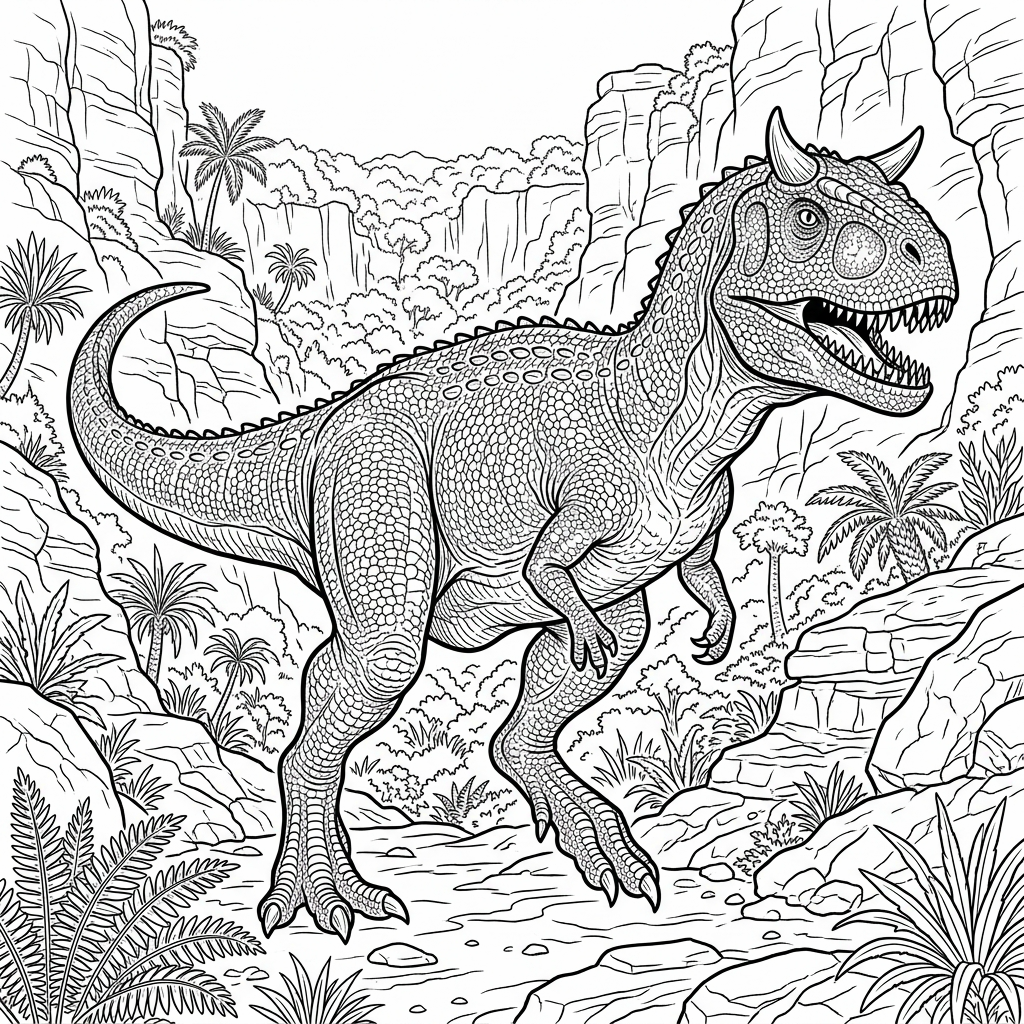
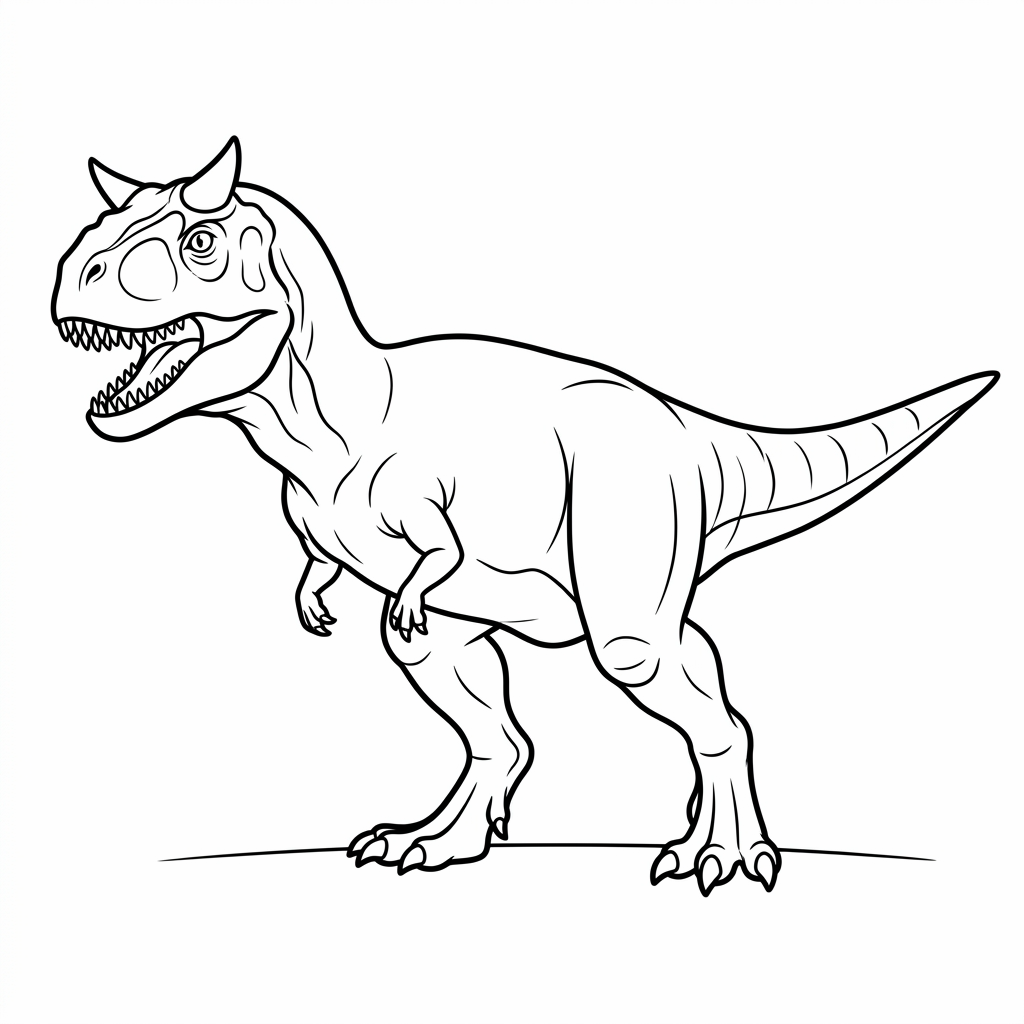
Nouveaux coloriages dinosaures realistes epures a grands traits coloriables, sans plantes, et ajout du duel T-Rex vs Spinosaure

diff --git a/templates.js b/templates.js
@@ -349,31 +349,31 @@ const COLORING_TEMPLATES = [
   },
 
   // ------------------------------------------------------
-  // DINOSAURES PRÉDATEURS RÉALISTES (LIGNES FINES & PRÉCISES)
-  // Illustrations professionnelles détaillées de haute qualité
+  // DINOSAURES PRÉDATEURS RÉALISTES (GRANDS TRAITS COLORIABLES)
+  // Contours nets, peau lisse sans hachures, sans plantes
   // ------------------------------------------------------
+  {
+    id: 'duel-trex-spinosaure',
+    category: 'predators',
+    title: '💥 Duel T-Rex vs Spinosaure',
+    imageSrc: 'assets/dinos/duel_trex_spinosaure.png'
+  },
   {
     id: 'trex-realiste',
     category: 'predators',
-    title: '🦖 T-Rex Prédateur Réaliste',
+    title: '🦖 T-Rex Prédateur (Grands Traits)',
     imageSrc: 'assets/dinos/trex_predateur.png'
-  },
-  {
-    id: 'velociraptor-realiste',
-    category: 'predators',
-    title: '⚡ Vélociraptor Chasseur Féroce',
-    imageSrc: 'assets/dinos/velociraptor_chasseur.png'
   },
   {
     id: 'spinosaure-realiste',
     category: 'predators',
-    title: '🐊 Spinosaure Géant des Marais',
+    title: '🐊 Spinosaure Géant (Voile Dorsale)',
     imageSrc: 'assets/dinos/spinosaure_geant.png'
   },
   {
     id: 'carnotaure-realiste',
     category: 'predators',
-    title: '🦏 Carnotaure Cornu du Crétacé',
+    title: '🦏 Carnotaure Cornu (Traits Épurés)',
     imageSrc: 'assets/dinos/carnotaure_cornu.png'
   },
 

diff --git a/sw.js b/sw.js
@@ -1,4 +1,4 @@
-const CACHE_NAME = 'coloriage-magic-v2';
+const CACHE_NAME = 'coloriage-magic-v3';
 const ASSETS_TO_CACHE = [
   './',
   './index.html',
@@ -8,8 +8,8 @@ const ASSETS_TO_CACHE = [
   './templates.js',
   './converter.js',
   './manifest.json',
+  './assets/dinos/duel_trex_spinosaure.png',
   './assets/dinos/trex_predateur.png',
-  './assets/dinos/velociraptor_chasseur.png',
   './assets/dinos/spinosaure_geant.png',
   './assets/dinos/carnotaure_cornu.png'
 ];

diff --git a/README.md b/README.md
@@ -25,7 +25,7 @@ Elle intègre un **convertisseur intelligent d'images et de photos en coloriages
 - **Bibliothèque thématique avec onglets de tri :**
   - 🐶 **Pat' Patrouille :** Chase le policier, Marcus le pompier, Stella l'aviatrice.
   - 🥷 **Lego Ninjago :** Kai le ninja du feu (avec ses katanas et flammes), Lloyd le ninja vert (tourbillon Spinjitzu).
-  - 🦖 **Dinosaures Prédateurs Réalistes (Haute Qualité & Traits Fins) :** Illustrations professionnelles ultra-détaillées avec écailles anatomiques, mâchoires redoutables, griffes et paysages jurassiques (T-Rex féroce, Vélociraptor à l'affût, Spinosaure géant des marais, Carnotaure cornu).
+  - 🦖 **Dinosaures Prédateurs Réalistes (Grands Traits & Épurés) :** Dessins réalistes et percutants avec de grands aplats faciles à colorier, sans plantes ni textures excessives (💥 **Duel T-Rex vs Spinosaure**, T-Rex rugissant, Spinosaure et sa voile dorsale compartimentée, Carnotaure cornu).
   - 🎨 **Mignons & Classiques :** Bébé dinosaure, fusée spatiale, chaton rigolo, papillon, voiture, licorne.
 
 ### 3. 📱 Optimisation iPad (Safari & Écran d'accueil)
